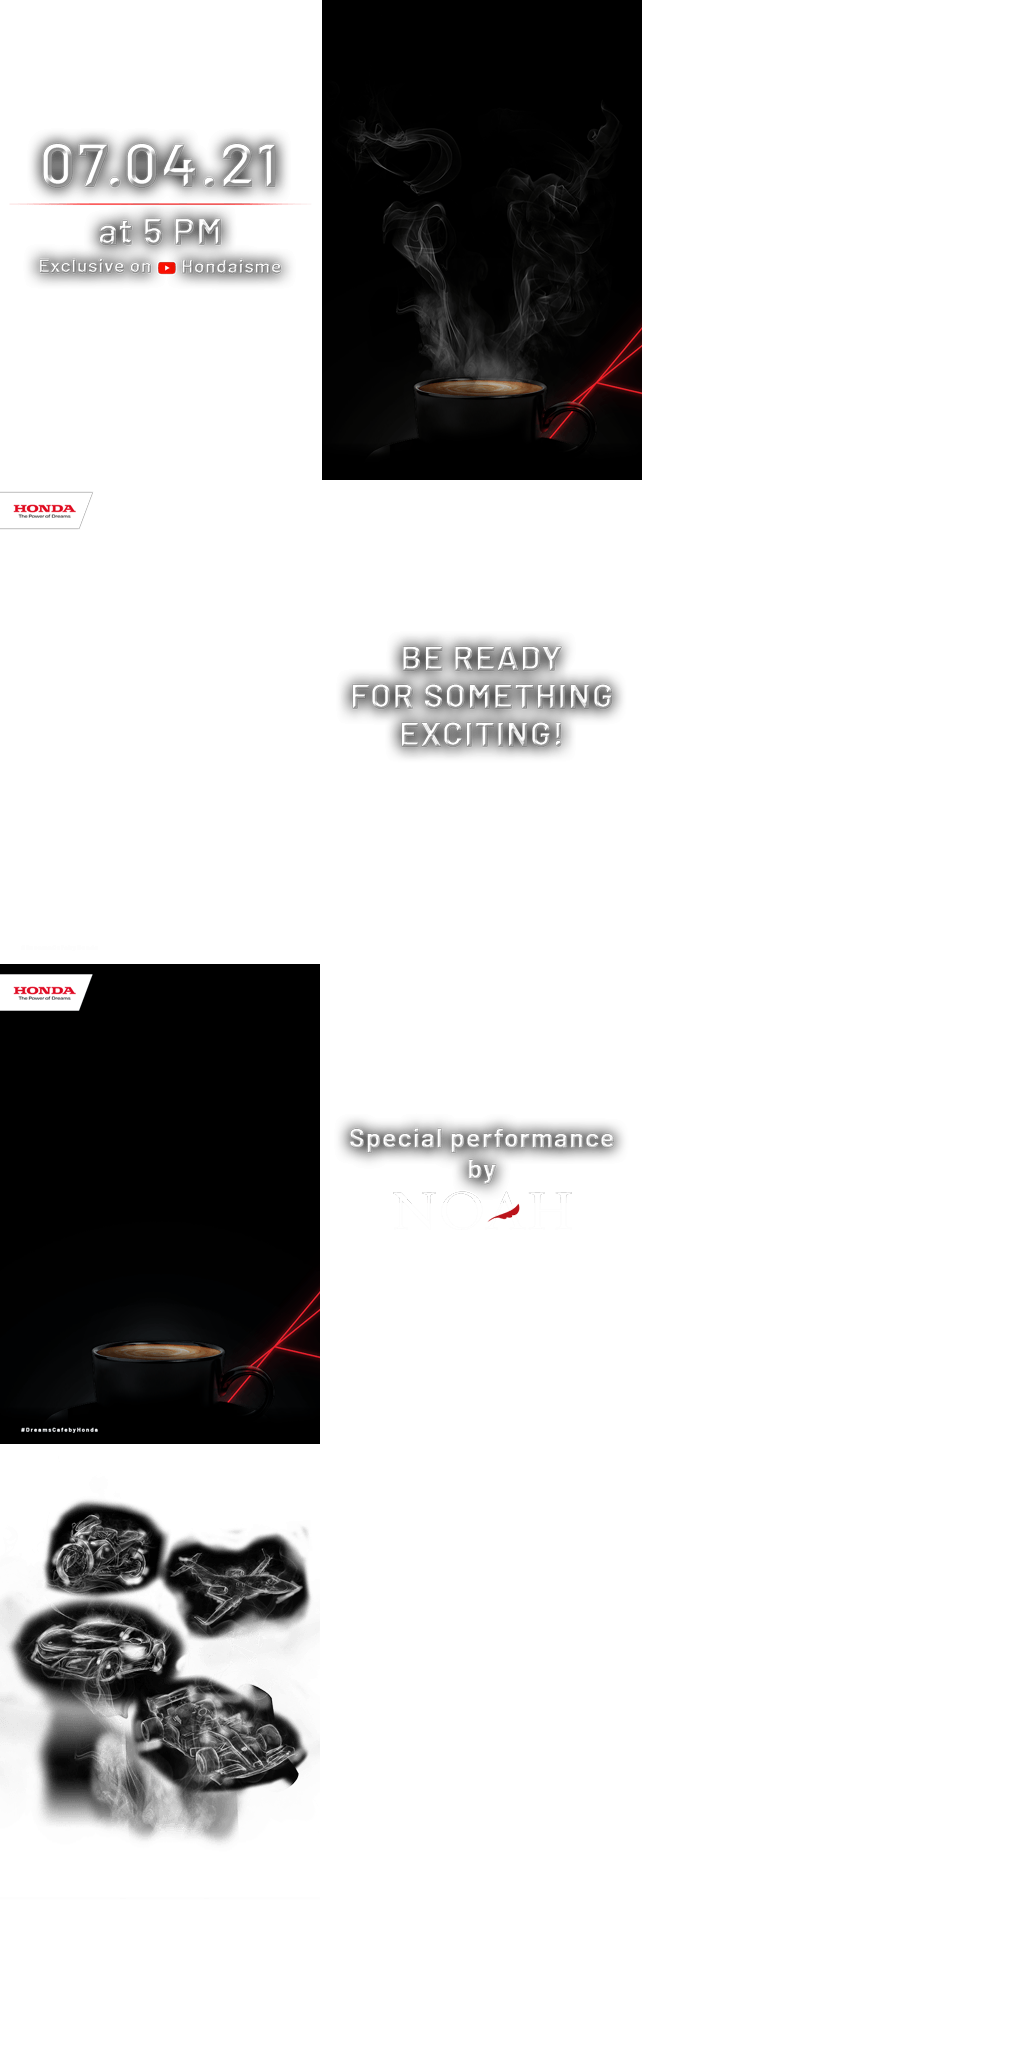
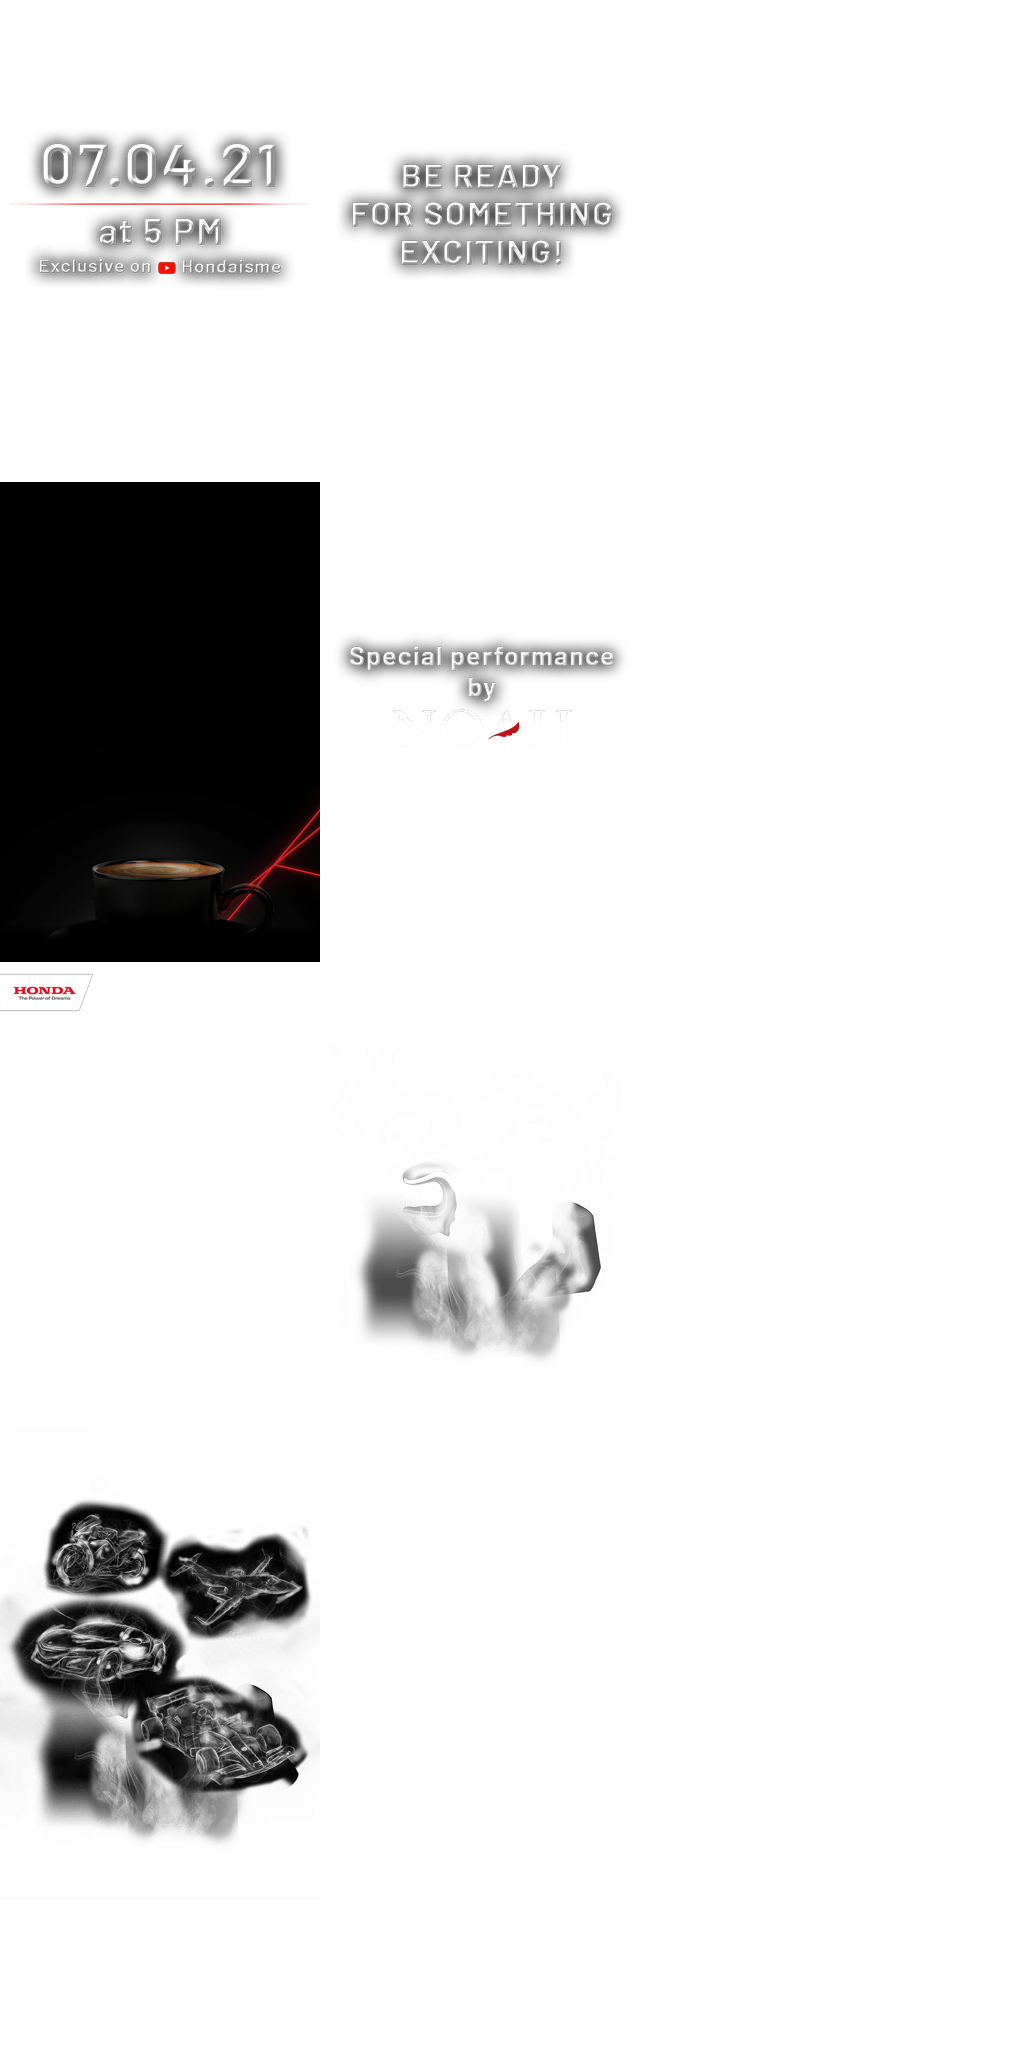
fhf

Changed region(s): [[0.0, 0.0, 0.625, 0.7188]]

diff --git a/m.idntimes/megabillboard/honda-april/src/320x480/320x480.js b/m.idntimes/megabillboard/honda-april/src/320x480/320x480.js
@@ -3,7 +3,7 @@
 var p; // shortcut to reference prototypes
 var lib={};var ss={};var img={};
 lib.ssMetadata = [
-		{name:"320x480_atlas_", frames: [[0,1446,320,480],[322,0,320,480],[322,482,320,480],[322,964,320,480],[0,0,320,480],[0,964,320,480],[0,482,320,480]]}
+		{name:"320x480_atlas_", frames: [[0,1446,320,480],[322,964,320,480],[322,0,320,480],[322,482,320,480],[0,0,320,480],[0,482,320,480],[0,964,320,480]]}
 ];
 
 
@@ -219,7 +219,7 @@ p.nominalBounds = new cjs.Rectangle(-160,-240,320,480);
 	this.instance = new lib.bg();
 	this.instance.parent = this;
 
-	this.timeline.addTween(cjs.Tween.get(this.instance).wait(85));
+	this.timeline.addTween(cjs.Tween.get(this.instance).wait(170));
 
 }).prototype = p = new cjs.MovieClip();
 
@@ -460,7 +460,7 @@ p.nominalBounds = new cjs.Rectangle(-160,-240,320,480);
 	this.bg.layerIndex = 6
 	this.bg.maskLayerName = 0
 
-	this.timeline.addTween(cjs.Tween.get(this.bg).to({_off:true},85).wait(85));
+	this.timeline.addTween(cjs.Tween.get(this.bg).wait(170));
 
 }).prototype = p = new cjs.MovieClip();
 p.nominalBounds = new cjs.Rectangle(160,240,160,240);
@@ -470,7 +470,7 @@ lib.properties = {
 	width: 320,
 	height: 480,
 	fps: 24,
-	color: "#FFFFFF",
+	color: "#000000",
 	opacity: 1.00,
 	manifest: [
 		{src:"images/320x480_atlas_.png", id:"320x480_atlas_"}

diff --git a/m.idntimes/megabillboard/honda-april/src/320x480/320x480.html b/m.idntimes/megabillboard/honda-april/src/320x480/320x480.html
@@ -191,8 +191,8 @@ function handleComplete(evt,comp) {
 <!-- write your code here -->
 </head>
 <body onload="init();" style="margin:0px;">
-	<div id="animation_container" style="background-color:rgba(255, 255, 255, 1.00); width:320px; height:480px">
-		<canvas id="canvas" width="320" height="480" style="position: absolute; display: block; background-color:rgba(255, 255, 255, 1.00);"></canvas>
+	<div id="animation_container" style="background-color:rgba(0, 0, 0, 1.00); width:320px; height:480px">
+		<canvas id="canvas" width="320" height="480" style="position: absolute; display: block; background-color:rgba(0, 0, 0, 1.00);"></canvas>
 		<div id="dom_overlay_container" style="pointer-events:none; overflow:hidden; width:320px; height:480px; position: absolute; left: 0px; top: 0px; display: block;">
 		</div>
 	</div>
